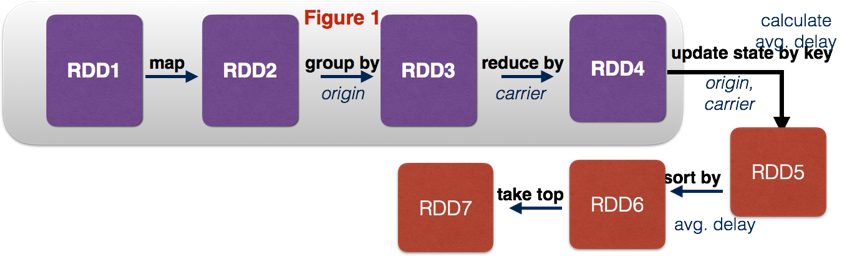
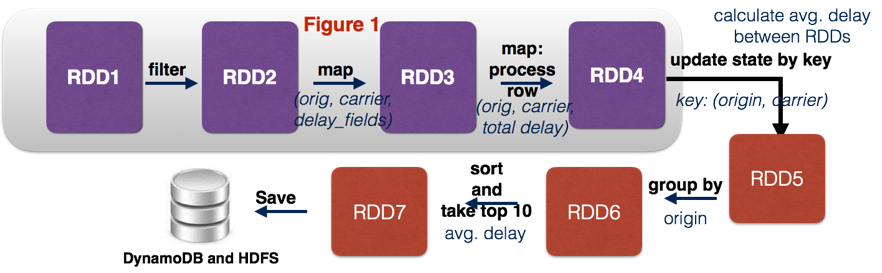
1. Add code for task 2-2
2. Update RDD flow in README

diff --git a/pyspark/streaming2-2.py b/pyspark/streaming2-2.py
@@ -1,7 +1,7 @@
 
 '''
 usage:
-MASTER=spark://{MASTER_URL}.compute-1.amazonaws.com:7077 bin/pyspark streaming2-3.py
+MASTER=spark://{MASTER_URL}.compute-1.amazonaws.com:7077 bin/pyspark streaming2-2.py
 '''
 
 from pyspark import SparkContext, SparkConf
@@ -12,15 +12,15 @@ STREAMING_INTERVAL = 8
 TOP_NUM = 10
 
 MASTER_URL = 'ec2-xx-xx-xx-xx.compute-1.amazonaws.com'
-CHECKPOINT_DIR = 'hdfs://{}/user/ubuntu/checkpoint2_3/'.format(MASTER_URL)
-TASK_DIR = 'task2_3'
+CHECKPOINT_DIR = 'hdfs://{}/user/ubuntu/checkpoint2_2/'.format(MASTER_URL)
+TASK_DIR = 'task2_2'
 
 empty_count = 0
 dfstream_num = 0
 
 
 def output_formatter(data):
-        return '{},{}, {},{}'.format(data[0][0], data[0][1], data[1][0], data[1][1])
+        return '{},{},{}'.format(data[0], data[1][0], data[1][1])
 
 
 def process(time, rdd):
@@ -47,15 +47,14 @@ def process(time, rdd):
 
 def sum_delay(fields):
 
-    carrier = fields[1]
-    orig = fields[2]
-    dest = fields[3]
+    orig = fields[1]
+    dest = fields[2]
 
-    carrier_delay = fields[4].replace('"', '')
-    weather_delay = fields[5].replace('"', '')
-    nas_delay = fields[6].replace('"', '')
-    security_delay = fields[7].replace('"', '')
-    late_aircraft_delay = fields[8].replace('"', '')
+    carrier_delay = fields[3].replace('"', '')
+    weather_delay = fields[4].replace('"', '')
+    nas_delay = fields[5].replace('"', '')
+    security_delay = fields[6].replace('"', '')
+    late_aircraft_delay = fields[7].replace('"', '')
 
     #print carrier_delay, weather_delay, nas_delay, security_delay, late_aircraft_delay
     delay_list = [carrier_delay, weather_delay, nas_delay, security_delay, late_aircraft_delay]
@@ -67,7 +66,7 @@ def sum_delay(fields):
 	except:
 		continue
 
-    return (orig, dest, carrier), (total_delay, 1)
+    return (orig, dest), (total_delay, 1)
 
 
 def updateFunction(newValues, curValue):
@@ -96,28 +95,26 @@ def createContext():
         # main split-combine-apply logic put here
 	# filter out header and other invalid rows
 	rdd = lines.map(lambda line: line.split(',')).filter(lambda words: len(words) > 56)
-        # extract first field (for filtering header), Carrier, Orig, Dest, and delay fields
-	rdd2 = rdd.map(lambda x: (x[0], x[8], x[11], x[18], x[52], x[53], x[54], x[55], x[56])).map(lambda line: [str(w.replace('"','')) for w in line]).filter(lambda row: row[0] != 'Year' and any(row[4:]))
+    	# extract first field (for filtering header), Orig, Dest, and delay fields
+	rdd2 = rdd.map(lambda x: (x[0], x[11], x[18], x[52], x[53], x[54], x[55], x[56])).map(lambda line: [str(w.replace('"','')) for w in line]).filter(lambda row: row[0] != 'Year' and any(row[3:]))
 	rdd2.pprint()
 
     	# sum up delay fields for each row
 	sum_delay_rdd = rdd2.map(sum_delay)
 	sum_delay_rdd.pprint()
 
-    	# sum up delay for each (orig, dest, carrier) pair
+    	# sum up delay for each (orig, carrier) pair
 	combined_rdd = sum_delay_rdd.updateStateByKey(updateFunction)
 	combined_rdd.pprint()
 
     	# calculate avg delay
-	avg_rdd = combined_rdd.transform(lambda rdd: rdd.map(lambda (x, y): ((x[0], x[1]), (y[0]/float(y[1]), x[2]))))
+	avg_rdd = combined_rdd.transform(lambda rdd: rdd.map(lambda (x, y): (x[0], (y[0]/float(y[1]), x[1]))))
 	avg_rdd.pprint()
 
-    	# group by (orig, dest)
-	avg_rdd_by_route = avg_rdd.groupByKey()
-
-    	# sort by on time performance for each (orig, dest) route and take top 10
-	route_sorted_carrier = avg_rdd_by_route.mapValues(lambda x: sorted(list(x))[:10])
-	aa = route_sorted_carrier.flatMapValues(lambda x: x)
+    	# group by orig and sort the performance of different airlines and take top 10
+	avg_rdd_by_airport = avg_rdd.groupByKey()
+	airport_sorted_carrier = avg_rdd_by_airport.mapValues(lambda x: sorted(list(x))[:10])
+	aa = airport_sorted_carrier.flatMapValues(lambda x: x)
 
     	aa.pprint()
 	aa.foreachRDD(process)

diff --git a/pyspark/streaming2-1.py b/pyspark/streaming2-1.py
@@ -47,8 +47,8 @@ def process(time, rdd):
 
 def sum_delay(fields):
 
-    orig = fields[1]
-    carrier = fields[2]
+    orig = fields[2]
+    carrier = fields[1]
 
     carrier_delay = fields[3].replace('"', '')
     weather_delay = fields[4].replace('"', '')
@@ -95,6 +95,7 @@ def createContext():
         # main split-combine-apply logic put here
 	# filter out header and other invalid rows
 	rdd = lines.map(lambda line: line.split(',')).filter(lambda words: len(words) > 56)
+        # extract first field (for filtering header), Carrier, Orig, and delay fields
 	rdd2 = rdd.map(lambda x: (x[0], x[8], x[11], x[52], x[53], x[54], x[55], x[56])).map(lambda line: [str(w.replace('"','')) for w in line]).filter(lambda row: row[0] != 'Year' and any(row[3:]))
 	rdd2.pprint()
 
